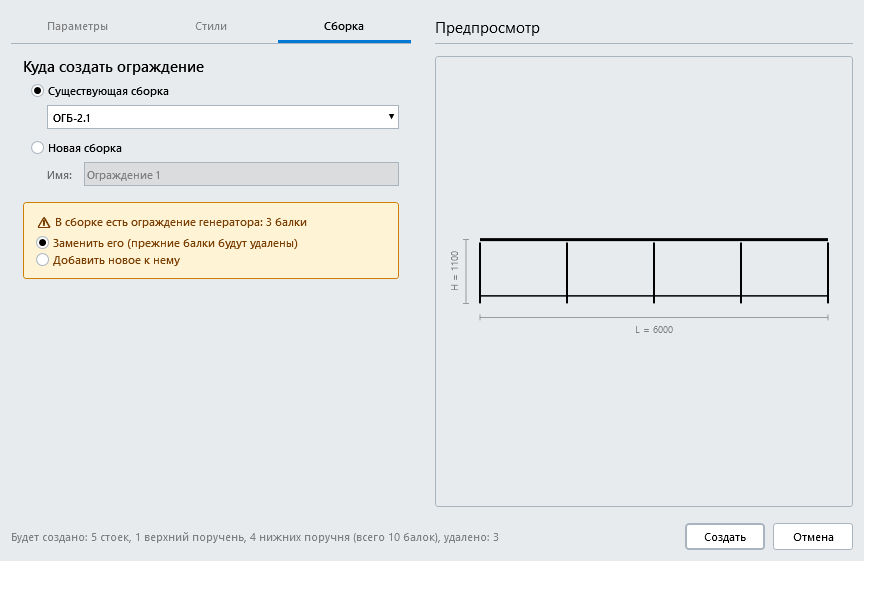
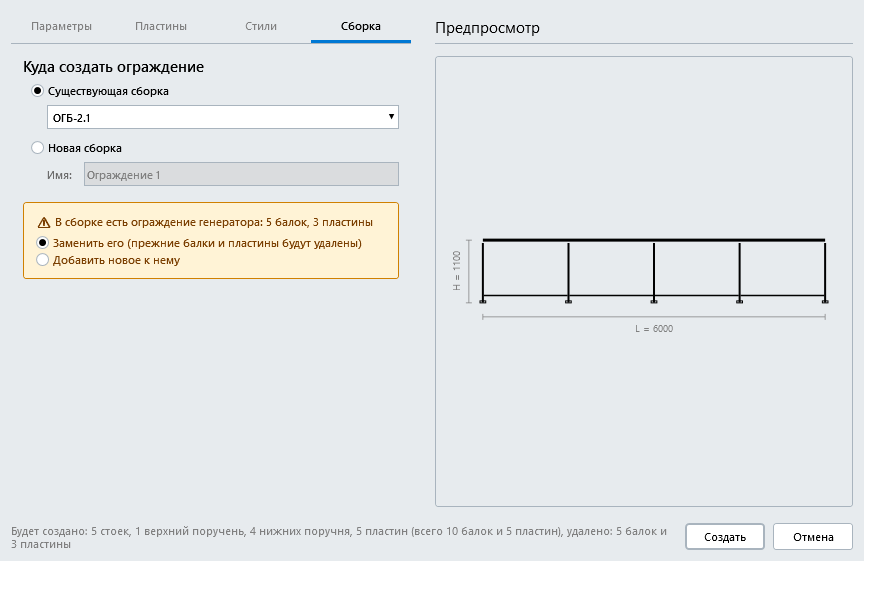
Версия 0.2: горизонтальное заполнение и пластины под стойками

diff --git a/README.md b/README.md
@@ -1,8 +1,8 @@
 # Генератор ограждений для Renga
 
-Плагин для [Renga](https://rengabim.com): создаёт ограждение из балок внутри сборки по заданной схеме — стойки, верхний поручень, нижние поручни и заполнение — и назначает им выбранные стили балок и материал. Ограждение можно перестроить с другими параметрами: прежнее удаляется, остальные балки сборки не затрагиваются.
+Плагин для [Renga](https://rengabim.com): создаёт ограждение из балок внутри сборки по заданной схеме — стойки, верхний поручень, нижние поручни, заполнение (вертикальное или горизонтальное) и пластины под стойками — и назначает им выбранные стили балок, стиль пластин и материал. Ограждение можно перестроить с другими параметрами: прежнее удаляется вместе с пластинами, остальные объекты сборки не затрагиваются.
 
-Версия 0.1.
+Версия 0.2.
 
 ![Окно «Генератор ограждений»](docs/window-params.png)
 
@@ -11,14 +11,18 @@
 ## Возможности
 - **Две формы ограждения**: прямое и угловое (Г-образное, угол 90°, два участка со своими длинами).
 - **Параметры**: длина (для углового - длины двух участков), высота (до верха поручня), вылет поручня за крайнюю стойку, разбивка на секции - по количеству секций или по наибольшему шагу стоек (шаг выравнивается по длине).
-- **Состав**: сплошной верхний поручень, стойки, нижний поручень кусками между стойками (по желанию, с заданной высотой над полом), заполнение вертикальными балками с заданным шагом (по желанию; ряд центрируется в каждой секции).
-- **Стили и материал**: стили балок для стойки, верхнего поручня, нижнего поручня и заполнения выбираются из стилей вашего проекта; размеры сечений плагин читает из стилей сам. Один общий материал для всех балок (или «Без материала»).
+- **Состав**: сплошной верхний поручень, стойки, нижний поручень кусками между стойками (по желанию, с заданной высотой над полом).
+- **Заполнение двух видов**: вертикальное (ряд прутков с заданным шагом, ряд центрируется в каждой секции) и горизонтальное (прутки вдоль ограждения между стойками: задаётся наибольший шаг по высоте, число прутков и точный шаг плагин считает сам и показывает).
+- **Пластины под стойками** (по желанию): «Снизу, на плоскости» (горизонтальная пластина под стойкой) и «Сбоку, у косоура или торца» (вертикальная пластина у боковой грани, стойка примыкает к ней). Размер пластины берётся из выбранного стиля пластины, толщина и (для боковых) высота верха пластины задаются в окне.
+- **Стили и материал**: стили балок для стойки, верхнего поручня, нижнего поручня и заполнения, стиль пластины - из стилей вашего проекта; размеры сечений и пластин плагин читает из стилей сам. Один общий материал для всех балок и пластин (или «Без материала»).
 - **Координаты**: ограждение строится в системе координат сборки от нуля в первой четверти (X и Y не отрицательные). Первый участок идёт вдоль +X, второй участок углового - из конца первого вдоль +Y. Положение сборки в здании задаётся самой сборкой, как обычно в Renga.
-- **Стыки**: на углу верхние поручни стыкует и подрезает сама Renga; концы нижних поручней плагин ставит по граням стоек, верх заполнения - под верхним поручнем.
+- **Стыки**: на углу верхние поручни стыкует и подрезает сама Renga; концы нижних поручней и горизонтальных прутков плагин ставит по граням стоек, верх вертикального заполнения - под верхним поручнем.
 - **Куда создавать**: в существующую сборку или в новую (с именем, которое вы зададите в окне).
-- **Перестроение**: если в сборке уже есть ограждение генератора, окно показывает его и подставляет прежние параметры; режим «Заменить» удаляет только балки плагина (по метке), «Добавить» добавляет новое ограждение рядом.
-- **Предпросмотр** схемы ограждения (развёртка фасада) и счётчик «Будет создано: …» обновляются при каждом изменении параметров; при неверном вводе кнопка «Создать» недоступна, причина показана рядом с полем.
+- **Перестроение**: если в сборке уже есть ограждение генератора, окно показывает его и подставляет прежние параметры; режим «Заменить» удаляет только объекты плагина (по метке, включая пластины), «Добавить» добавляет новое ограждение рядом. Ограждения, созданные версией 0.1, читаются как «Вертикальное» и «Без пластин».
+- **Предпросмотр** схемы ограждения (развёртка фасада, пластины тонкими контурами) и счётчик «Будет создано: …» обновляются при каждом изменении параметров; при неверном вводе кнопка «Создать» недоступна, причина показана рядом с полем.
 - **Отмена**: два шага Ctrl+Z (три, если создавалась новая сборка). Итоговое окно подсказывает, сколько раз нажать.
+
+![Пластины](docs/window-plates.png)
 
 ![Угловое ограждение](docs/window-corner.png)
 
@@ -26,35 +30,43 @@
 
 ![Вкладка «Сборка»](docs/window-assembly.png)
 
+## Что нового в 0.2
+- Горизонтальное заполнение как второй вид заполнения.
+- Пластины под стойками: «Снизу» и «Сбоку», размер из стиля, толщина и верх пластины в окне, метка и «Заменить» работают и для пластин.
+- Новая вкладка «Пластины», в «Стилях» - стиль пластины, материал теперь общий для балок и пластин.
+- Ограждения версии 0.1 открываются без изменений.
+
 ## Требования
 - Windows.
 - Renga с поддержкой плагинов .NET 8 (в манифесте указан API 2.49).
-- В проекте должен быть хотя бы один стиль балки (например, «Труба 30х30х3,5»).
+- В проекте должен быть хотя бы один стиль балки (например, «Труба 30х30х3,5»); для пластин - хотя бы один стиль пластины.
 
 ## Установка
-1. Скачайте архив `RailingGenerator-0.1.zip` на странице [Releases](../../releases).
+1. Скачайте архив `RailingGenerator-0.2.zip` на странице [Releases](../../releases).
 2. Закройте Renga.
-3. Распакуйте архив и скопируйте папку `RailingGenerator` в `C:\Program Files\Renga Professional\Plugins\` (потребуются права администратора).
+3. Распакуйте архив и скопируйте папку `RailingGenerator` в `C:\Program Files\Renga Professional\Plugins\` (потребуются права администратора). При обновлении с 0.1 замените папку `RailingGenerator` целиком.
 4. Запустите Renga: на ленте появится кнопка «Генератор ограждений».
 
 Если кнопки нет, посмотрите журнал `%localappdata%\Renga Software\Renga Professional\AecApp.log`. Журнал самого плагина - `%LOCALAPPDATA%\RailingGenerator\`.
 
 ## Как пользоваться
 1. Откройте проект и нажмите «Генератор ограждений» на ленте.
-2. Вкладка «Параметры»: выберите форму (прямое или угловое), введите длину, высоту, вылет и разбивку, включите нижний поручень и заполнение при необходимости. Справа смотрите схему и счётчик балок.
-3. Вкладка «Стили»: выберите стили балок для стойки, поручней и заполнения и общий материал.
-4. Вкладка «Сборка»: выберите существующую сборку или создайте новую (введите имя). Если в сборке уже есть ограждение генератора, выберите «Заменить» или «Добавить».
-5. Нажмите «Создать». Итоговое окно покажет числа и подскажет, сколько раз нажать Ctrl+Z для отмены.
+2. Вкладка «Параметры»: выберите форму (прямое или угловое), введите длину, высоту, вылет и разбивку, включите нижний поручень и заполнение (вертикальное или горизонтальное). Справа смотрите схему и счётчик.
+3. Вкладка «Пластины»: выберите «Без пластин», «Снизу» или «Сбоку», задайте толщину (и для «Сбоку» - верх пластины).
+4. Вкладка «Стили»: выберите стили балок, стиль пластины и общий материал.
+5. Вкладка «Сборка»: выберите существующую сборку или создайте новую (введите имя). Если в сборке уже есть ограждение генератора, выберите «Заменить» или «Добавить».
+6. Нажмите «Создать». Итоговое окно покажет числа и подскажет, сколько раз нажать Ctrl+Z для отмены.
 
 ## Известные ограничения
-- Только прямое и угловое (90°) ограждение. Ограждения по ломаной с несколькими углами, по дуге и на лестничных маршах не поддерживаются.
-- Не создаются промежуточные поручни и пластины под стойками (стойки начинаются с нулевой отметки). Марка балок (`Mark`) не заполняется - её задаёт проектировщик.
-- Один общий материал на все балки ограждения.
+- Только прямое и угловое (90°) ограждение. Ограждения по ломаной с несколькими углами, по дуге и на лестничных маршах не поддерживаются (маршевые и площадочные ограждения планируются отдельной версией).
+- Не создаются промежуточные поручни, решётка (вертикальные и горизонтальные прутки вместе), сплошное заполнение листом или стеклом и анкеры. Марка (`Mark`) объектов не заполняется - её задаёт проектировщик.
+- Один общий материал на все объекты ограждения. Пластина «Сбоку» не уходит ниже нуля по Z.
+- В угловом ограждении с пластинами «Сбоку» пластина угловой стойки может выступать за плоскость соседнего участка (порядка 30-40 мм, зависит от размера пластины).
 - Новая сборка создаётся без экземпляра в здании: разместить её в модели нужно самостоятельно.
-- Подрезку угла выполняет Renga: балка, созданная раньше (первый участок), продлевается до внешней грани, созданная позже (второй участок) обрезается. Нижние поручни и заполнение вдоль стоек плагин рассчитывает сам; в местах, где Renga сама не подрезает, концы заданы по граням.
-- Запись параметров балок (привязка профиля, материал) Renga принимает только отдельной операцией, поэтому отмена требует двух нажатий Ctrl+Z.
-- Метка плагина - строковое свойство «Генератор ограждений: метка» на балках; режим «Заменить» удаляет только балки с этой меткой.
-- Не проверено в самой Renga: работа режима «Добавить», окно при масштабе Windows 125-200 % и при минимальном размере окна. Расчёт ограждения, проверка ввода и логика окна покрыты автоматическими тестами.
+- Подрезку угла выполняет Renga: балка, созданная раньше (первый участок), продлевается до внешней грани, созданная позже (второй участок) обрезается. Нижние поручни, горизонтальные прутки и заполнение плагин рассчитывает сам; в местах, где Renga сама не подрезает, концы заданы по граням.
+- Запись параметров балок и пластин (привязка профиля, толщина, материал) Renga принимает только отдельной операцией, поэтому отмена требует двух нажатий Ctrl+Z.
+- Метка плагина - строковое свойство «Генератор ограждений: метка» на балках и пластинах; режим «Заменить» удаляет только объекты с этой меткой.
+- Не проверено в самой Renga: окно при масштабе Windows 125 % и 200 % и при минимальном размере окна. Расчёт ограждения, проверка ввода и логика окна покрыты автоматическими тестами.
 
 ## О разработке
 Плагин разработан с помощью искусственного интеллекта (Claude, Anthropic) под руководством автора. Работа плагина проверялась автором в Renga на тестовых проектах, но программа поставляется «как есть», без гарантий: перед использованием на важных проектах проверьте результат (ограждение отменяется Ctrl+Z).
